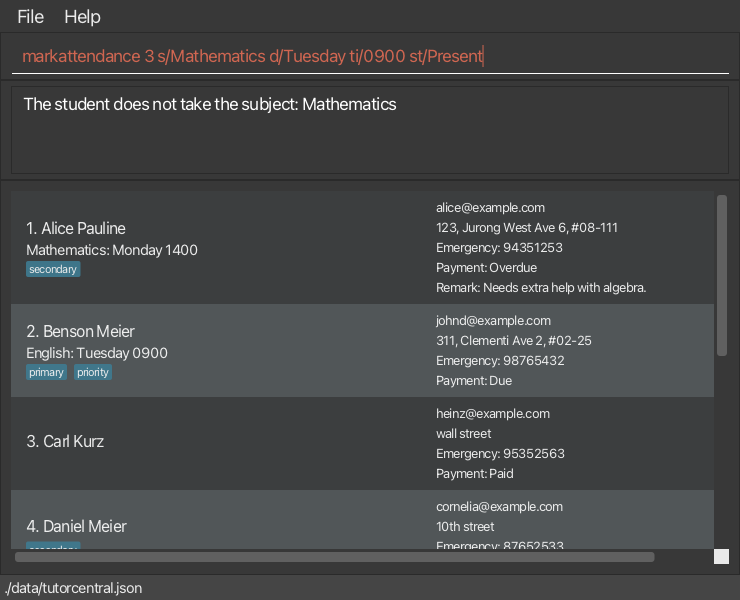
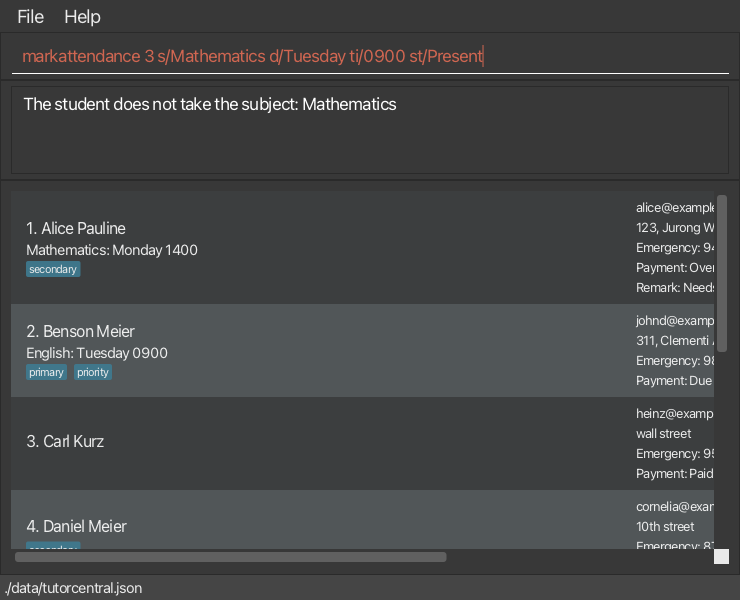
feat: add remark support to add command and refresh UG screenshots (#227)
Parse optional r/REMARK prefix in AddCommandParser so users can set
a remark when adding a student. Update UG docs and regenerate all
screenshots to reflect current app state.

Changed region(s): [[0.5905, 0.33, 0.9946, 0.81], [0.5905, 0.84, 0.9635, 0.96]]

diff --git a/src/main/java/seedu/address/logic/parser/AddCommandParser.java b/src/main/java/seedu/address/logic/parser/AddCommandParser.java
@@ -9,6 +9,7 @@ import static seedu.address.logic.parser.CliSyntax.PREFIX_EMAIL;
 import static seedu.address.logic.parser.CliSyntax.PREFIX_EMERGENCY_CONTACT;
 import static seedu.address.logic.parser.CliSyntax.PREFIX_NAME;
 import static seedu.address.logic.parser.CliSyntax.PREFIX_PAYMENT_STATUS;
+import static seedu.address.logic.parser.CliSyntax.PREFIX_REMARK;
 import static seedu.address.logic.parser.CliSyntax.PREFIX_SUBJECT;
 import static seedu.address.logic.parser.CliSyntax.PREFIX_TAG;
 import static seedu.address.logic.parser.CliSyntax.PREFIX_TIME;
@@ -44,7 +45,7 @@ public class AddCommandParser implements Parser<AddCommand> {
                 ArgumentTokenizer.tokenize(args, PREFIX_NAME, PREFIX_EMAIL,
                         PREFIX_ADDRESS, PREFIX_SUBJECT, PREFIX_DAY,
                         PREFIX_TIME, PREFIX_EMERGENCY_CONTACT,
-                        PREFIX_PAYMENT_STATUS, PREFIX_TAG);
+                        PREFIX_PAYMENT_STATUS, PREFIX_REMARK, PREFIX_TAG);
 
         if (!arePrefixesPresent(argMultimap, PREFIX_NAME, PREFIX_ADDRESS,
                 PREFIX_EMAIL, PREFIX_EMERGENCY_CONTACT)
@@ -102,8 +103,11 @@ public class AddCommandParser implements Parser<AddCommand> {
         Set<Tag> tagList = ParserUtil.parseTags(
                 argMultimap.getAllValues(PREFIX_TAG));
 
+        Remark remark = argMultimap.getValue(PREFIX_REMARK).isPresent()
+                ? new Remark(argMultimap.getValue(PREFIX_REMARK).get().trim())
+                : new Remark("");
         Person person = new Person(name, email, address, lessonSlots,
-                emergencyContact, paymentStatus, new Remark(""), tagList);
+                emergencyContact, paymentStatus, remark, tagList);
 
         return new AddCommand(person);
     }

diff --git a/src/test/java/seedu/address/logic/parser/AddCommandParserTest.java b/src/test/java/seedu/address/logic/parser/AddCommandParserTest.java
@@ -370,4 +370,27 @@ public class AddCommandParserTest {
                         + SUBJECT_DESC_MATH + DAY_DESC_MONDAY + INVALID_TIME_DESC,
                 Time.MESSAGE_CONSTRAINTS);
     }
+
+    @Test
+    public void parse_remarkField_success() {
+        Person expectedPerson = new PersonBuilder(BOB)
+                .withRemark("Needs extra help").build();
+        assertParseSuccess(parser,
+                NAME_DESC_BOB + EMAIL_DESC_BOB + ADDRESS_DESC_BOB
+                        + EMERGENCY_CONTACT_DESC_BOB
+                        + TAG_DESC_FRIEND + TAG_DESC_HUSBAND
+                        + " r/Needs extra help",
+                new AddCommand(expectedPerson));
+    }
+
+    @Test
+    public void parse_noRemark_defaultsToEmpty() {
+        Person expectedPerson = new PersonBuilder(BOB)
+                .withRemark("").build();
+        assertParseSuccess(parser,
+                NAME_DESC_BOB + EMAIL_DESC_BOB + ADDRESS_DESC_BOB
+                        + EMERGENCY_CONTACT_DESC_BOB
+                        + TAG_DESC_FRIEND + TAG_DESC_HUSBAND,
+                new AddCommand(expectedPerson));
+    }
 }

diff --git a/src/test/java/seedu/address/ui/ScreenshotTest.java b/src/test/java/seedu/address/ui/ScreenshotTest.java
@@ -111,7 +111,8 @@ public class ScreenshotTest {
 
         runCommand(robot,
                 "add n/John Tan e/johntan@example.com a/21 Lower Kent Ridge Rd "
-                + "s/Mathematics d/Monday ti/1400 ec/91234567 ps/Due");
+                + "s/Mathematics d/Monday ti/1400 ec/91234567 ps/Due "
+                + "r/Needs extra help");
         takeScreenshot("add-result");
 
         runCommand(robot, "list");

diff --git a/src/main/java/seedu/address/logic/commands/AddCommand.java b/src/main/java/seedu/address/logic/commands/AddCommand.java
@@ -35,6 +35,7 @@ public class AddCommand extends Command {
             + "[" + PREFIX_TIME + "TIME]... "
             + PREFIX_EMERGENCY_CONTACT + "EMERGENCY_CONTACT "
             + "[" + PREFIX_PAYMENT_STATUS + "PAYMENT_STATUS] "
+            + "[r/REMARK] "
             + "[" + PREFIX_TAG + "TAG]...\n"
             + "Example: " + COMMAND_WORD + " "
             + PREFIX_NAME + "John Doe "

diff --git a/docs/UserGuide.md b/docs/UserGuide.md
@@ -143,7 +143,7 @@ Example result: A pop-up window will show you a link to this user guide with mor
 
 Adds a student to Tutor Central.
 
-Format: `add n/NAME e/EMAIL a/ADDRESS ec/EMERGENCY_CONTACT [s/SUBJECT d/DAY ti/TIME]… [ps/PAYMENT_STATUS] [t/TAG]…`
+Format: `add n/NAME e/EMAIL a/ADDRESS ec/EMERGENCY_CONTACT [s/SUBJECT d/DAY ti/TIME]… [ps/PAYMENT_STATUS] [r/REMARK] [t/TAG]…`
 
 <box type="tip" seamless>
 
@@ -154,9 +154,10 @@ Format: `add n/NAME e/EMAIL a/ADDRESS ec/EMERGENCY_CONTACT [s/SUBJECT d/DAY ti/T
 
 Examples:
 
-- `add n/John Tan e/johntan@example.com a/21 Lower Kent Ridge Rd ec/98765432 s/Mathematics d/Monday ti/1400 s/English d/Wednesday ti/1600 ps/Due`
+- `add n/John Tan e/johntan@example.com a/21 Lower Kent Ridge Rd ec/98765432 s/Mathematics d/Monday ti/1400 s/English d/Wednesday ti/1600 ps/Due r/Needs extra help`
 
 If `ps/PAYMENT_STATUS` is omitted, the student's payment status defaults to `Due`.
+If `r/REMARK` is omitted, the remark defaults to empty.
 
 Example result after adding a student:
 ![add result](images/add-result.png)
@@ -444,7 +445,7 @@ _Details coming soon ..._
 
 | Action             | Format, Examples                                                                                                                                                                                                                   |
 | ------------------ | ---------------------------------------------------------------------------------------------------------------------------------------------------------------------------------------------------------------------------------- |
-| **Add**            | `add n/NAME e/EMAIL a/ADDRESS ec/EMERGENCY_CONTACT [s/SUBJECT d/DAY ti/TIME]... [ps/PAYMENT_STATUS] [t/TAG]...` <br> e.g., `add n/John Doe e/johnd@example.com a/Clementi Ave 2 ec/91234567 s/Mathematics d/Monday ti/1400 ps/Due` |
+| **Add**            | `add n/NAME e/EMAIL a/ADDRESS ec/EMERGENCY_CONTACT [s/SUBJECT d/DAY ti/TIME]... [ps/PAYMENT_STATUS] [r/REMARK] [t/TAG]...` <br> e.g., `add n/John Doe e/johnd@example.com a/Clementi Ave 2 ec/91234567 s/Mathematics d/Monday ti/1400 ps/Due r/Needs help` |
 | **Clear**          | `clear`                                                                                                                                                                                                                            |
 | **Delete**         | `delete INDEX` <br> e.g., `delete 3`                                                                                                                                                                                               |
 | **Edit**           | `edit INDEX [n/NAME] [e/EMAIL] [a/ADDRESS] [ec/EMERGENCY_CONTACT] [s/SUBJECT d/DAY ti/TIME]... [ps/PAYMENT_STATUS] [r/REMARK] [t/TAG]...` <br> e.g., `edit 1 e/johndoe@example.com`                                                |
